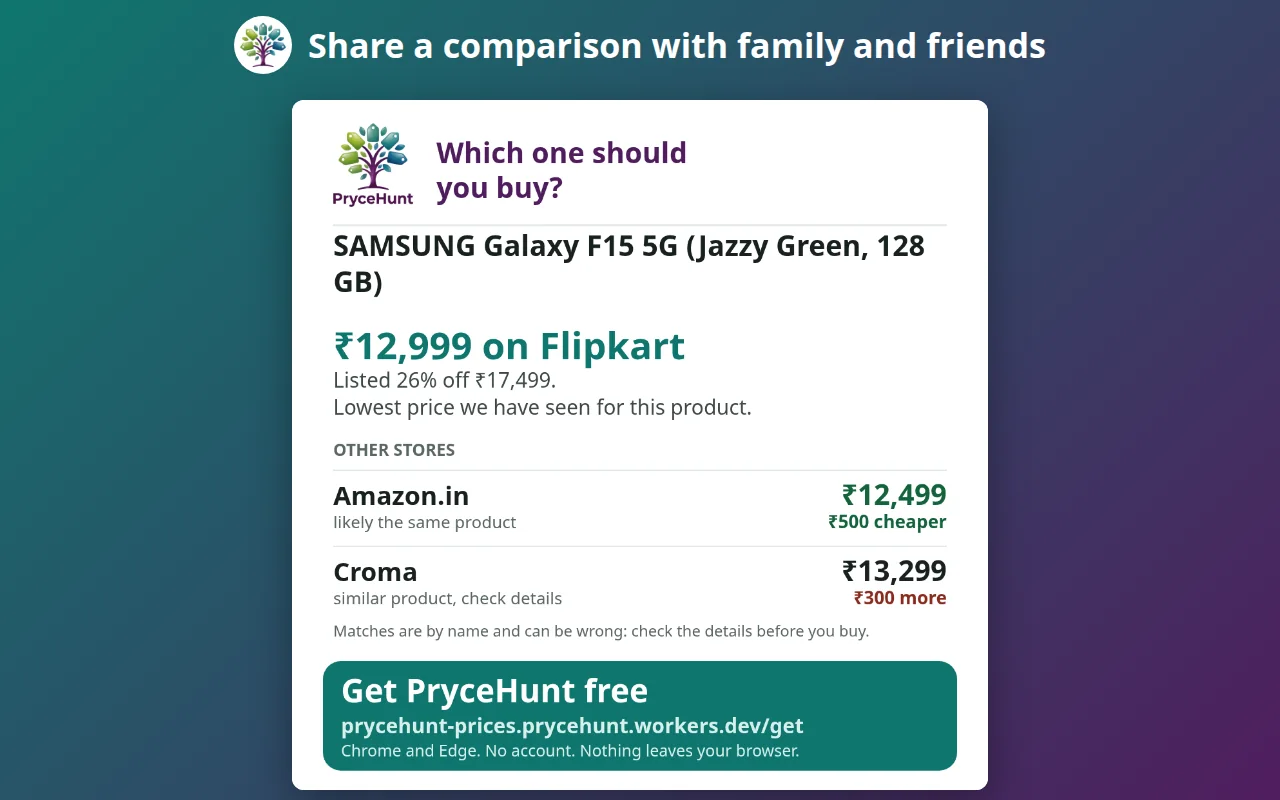
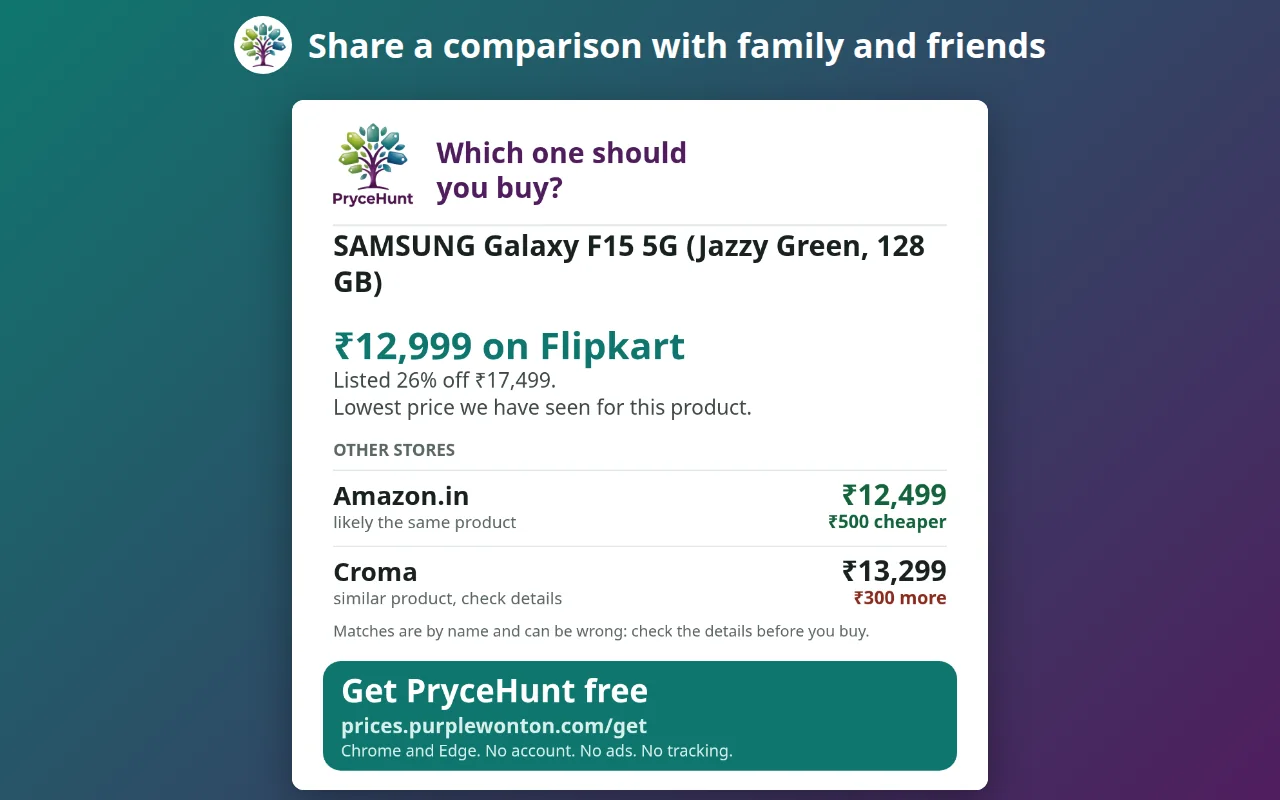
PryceHunt page: say that anonymous price sharing is on by default, and refresh the pictures
PryceHunt now shares anonymous prices by default (the owner's decision), and users can switch it
off in Settings. The page still said every optional feature was off until switched on. Corrected
in the English wording (the other languages show the English text for these PryceHunt keys):
- "Private by design": sharing is on by default (what is sent: store, product code, price and day;
  never who you are or your pincode; can be switched off); other features stay off until switched on.
- "Your choices": the same, with sharing named as the one exception.
- Price history bullet and the alerts answer: the shared history comes from prices that PryceHunt
  users share anonymously, not "chose to share".
- The answer to "Does PryceHunt see what I browse?" says what sharing sends.
- New question: "Can I switch off price sharing?" (Settings, Privacy and data), so the page and the
  structured data both carry it.
- The six screenshots were refreshed from PryceHunt's latest store pictures (the box footer now
  says "Anonymous prices are shared, never who you are.").

Checked: all five pages (home in English and German, PryceHunt, DupTabOff, French support) at ten
widths from 1280 to 320 pixels: pictures load, all have alt text, no failed requests, nothing scrolls
sideways. The home pages' picture fingerprints changed (all languages); nothing else.

Changed region(s): [[0.2812, 0.875, 0.625, 0.9688]]

diff --git a/prycehunt/index.html b/prycehunt/index.html
@@ -19,7 +19,7 @@
 <meta name="twitter:card" content="summary_large_image">
 <meta name="robots" content="index, follow">
 <meta name="theme-color" content="#7140e0">
-<script type="application/ld+json">{"@context": "https://schema.org", "@graph": [{"@type": "Organization", "@id": "https://www.purplewonton.com/#org", "name": "Purple Wonton", "url": "https://www.purplewonton.com/", "logo": "https://www.purplewonton.com/assets/mark.png", "email": "support@purplewonton.com", "description": "Purple Wonton is a technology studio in Bengaluru, India, building software, AI and automation products.", "address": {"@type": "PostalAddress", "addressLocality": "Bengaluru", "addressRegion": "Karnataka", "addressCountry": "IN"}}, {"@type": "SoftwareApplication", "name": "PryceHunt: price comparison for Indian stores", "url": "https://www.purplewonton.com/prycehunt/", "inLanguage": "en", "applicationCategory": "ShoppingApplication", "operatingSystem": "Chrome or Edge on Windows, macOS, Linux and ChromeOS", "description": "PryceHunt is a Chrome and Edge extension that shows what the product you are viewing costs at other Indian stores, with price history, honest sale facts and price-drop alerts. No account, no ads, no tracking.", "image": "https://www.purplewonton.com/assets/og-prycehunt.jpg", "screenshot": "https://www.purplewonton.com/assets/shots/prycehunt/comparison-box.webp", "publisher": {"@id": "https://www.purplewonton.com/#org"}, "offers": {"@type": "Offer", "name": "Free during launch", "price": "0", "priceCurrency": "INR"}}, {"@type": "FAQPage", "inLanguage": "en", "mainEntity": [{"@type": "Question", "name": "Is PryceHunt free?", "acceptedAnswer": {"@type": "Answer", "text": "Yes, while it is being launched. If a paid plan with higher limits comes later, we will tell you well before anything changes."}}, {"@type": "Question", "name": "Which browsers does it work in?", "acceptedAnswer": {"@type": "Answer", "text": "Chrome and Edge on a computer. Other browsers may come later."}}, {"@type": "Question", "name": "Do I need an account?", "acceptedAnswer": {"@type": "Answer", "text": "No. You never sign in, and your settings stay in your browser."}}, {"@type": "Question", "name": "How accurate are the matches?", "acceptedAnswer": {"@type": "Answer", "text": "PryceHunt matches products by name, so it can be wrong: a different size, colour or model can look the same. It labels each match as “likely the same product” or “similar: check details”, and you can flag a wrong match or price."}}, {"@type": "Question", "name": "Does PryceHunt see what I browse?", "acceptedAnswer": {"@type": "Answer", "text": "On the shopping sites it works on, it reads the product name and price on the page you are viewing, on your computer. It sends nothing by itself. A few optional features send limited information, each only after you switch it on."}}, {"@type": "Question", "name": "Why can't alerts arrive while my browser is closed?", "acceptedAnswer": {"@type": "Answer", "text": "The price checks run in your browser, so they need it open. You can also let PryceHunt watch for you while the browser is closed, using prices that other people chose to share, and receive alerts on Telegram; this can miss some drops."}}, {"@type": "Question", "name": "Does PryceHunt earn money from my purchases?", "acceptedAnswer": {"@type": "Answer", "text": "It may. When you click “Go to this store” and the store is cheaper or has an offer, PryceHunt may open an affiliate link that earns us a commission at no cost to you. It says so next to the button, and the link is added only when you click."}}, {"@type": "Question", "name": "How do I get in touch?", "acceptedAnswer": {"@type": "Answer", "text": "Write to support@purplewonton.com."}}]}]}</script>
+<script type="application/ld+json">{"@context": "https://schema.org", "@graph": [{"@type": "Organization", "@id": "https://www.purplewonton.com/#org", "name": "Purple Wonton", "url": "https://www.purplewonton.com/", "logo": "https://www.purplewonton.com/assets/mark.png", "email": "support@purplewonton.com", "description": "Purple Wonton is a technology studio in Bengaluru, India, building software, AI and automation products.", "address": {"@type": "PostalAddress", "addressLocality": "Bengaluru", "addressRegion": "Karnataka", "addressCountry": "IN"}}, {"@type": "SoftwareApplication", "name": "PryceHunt: price comparison for Indian stores", "url": "https://www.purplewonton.com/prycehunt/", "inLanguage": "en", "applicationCategory": "ShoppingApplication", "operatingSystem": "Chrome or Edge on Windows, macOS, Linux and ChromeOS", "description": "PryceHunt is a Chrome and Edge extension that shows what the product you are viewing costs at other Indian stores, with price history, honest sale facts and price-drop alerts. No account, no ads, no tracking.", "image": "https://www.purplewonton.com/assets/og-prycehunt.jpg", "screenshot": "https://www.purplewonton.com/assets/shots/prycehunt/comparison-box.webp", "publisher": {"@id": "https://www.purplewonton.com/#org"}, "offers": {"@type": "Offer", "name": "Free during launch", "price": "0", "priceCurrency": "INR"}}, {"@type": "FAQPage", "inLanguage": "en", "mainEntity": [{"@type": "Question", "name": "Is PryceHunt free?", "acceptedAnswer": {"@type": "Answer", "text": "Yes, while it is being launched. If a paid plan with higher limits comes later, we will tell you well before anything changes."}}, {"@type": "Question", "name": "Which browsers does it work in?", "acceptedAnswer": {"@type": "Answer", "text": "Chrome and Edge on a computer. Other browsers may come later."}}, {"@type": "Question", "name": "Do I need an account?", "acceptedAnswer": {"@type": "Answer", "text": "No. You never sign in, and your settings stay in your browser."}}, {"@type": "Question", "name": "How accurate are the matches?", "acceptedAnswer": {"@type": "Answer", "text": "PryceHunt matches products by name, so it can be wrong: a different size, colour or model can look the same. It labels each match as “likely the same product” or “similar: check details”, and you can flag a wrong match or price."}}, {"@type": "Question", "name": "Does PryceHunt see what I browse?", "acceptedAnswer": {"@type": "Answer", "text": "On the shopping sites it works on, it reads the product name and price on the page you are viewing, on your computer. With anonymous price sharing, which is on by default and can be switched off in Settings, it sends the store, product code, price and day of the products you view, never who you are, your pincode or the page address. Other features that send anything are off until you switch them on."}}, {"@type": "Question", "name": "Can I switch off price sharing?", "acceptedAnswer": {"@type": "Answer", "text": "Yes. Open PryceHunt's settings, go to Privacy and data, and untick “Share anonymous prices”. The welcome screen shown at install explains what it sends."}}, {"@type": "Question", "name": "Why can't alerts arrive while my browser is closed?", "acceptedAnswer": {"@type": "Answer", "text": "The price checks run in your browser, so they need it open. You can also let PryceHunt watch for you while the browser is closed, using prices that PryceHunt users share anonymously, and receive alerts on Telegram; this can miss some drops."}}, {"@type": "Question", "name": "Does PryceHunt earn money from my purchases?", "acceptedAnswer": {"@type": "Answer", "text": "It may. When you click “Go to this store” and the store is cheaper or has an offer, PryceHunt may open an affiliate link that earns us a commission at no cost to you. It says so next to the button, and the link is added only when you click."}}, {"@type": "Question", "name": "How do I get in touch?", "acceptedAnswer": {"@type": "Answer", "text": "Write to support@purplewonton.com."}}]}]}</script>
 <link rel="stylesheet" href="../assets/site.css">
 </head>
 <body>
@@ -49,7 +49,7 @@
       <a class="btn ghost" href="#features">See what it does</a>
     </div>
   </div>
-  <img class="hero-shot" src="../assets/shots/prycehunt/comparison-box.webp?v=68cea952" width="1280" height="800" alt="PryceHunt&#x27;s comparison box on a product page, showing a cheaper price at another store">
+  <img class="hero-shot" src="../assets/shots/prycehunt/comparison-box.webp?v=a1d2b999" width="1280" height="800" alt="PryceHunt&#x27;s comparison box on a product page, showing a cheaper price at another store">
 </section>
 
 <div class="wrap" id="features">
@@ -59,7 +59,7 @@
       <p>A small box under the price opens the comparison. Switch on “Show the price here instead of a link” and PryceHunt shows the other store's price in the box, marked “likely the same product” or “similar: check details”. You can switch that on or off right there.</p>
       <ul class="points"><li>Live prices today for Amazon.in and Flipkart; the other stores open their own search</li><li>The cheapest store found is called out, and you can list the lowest price first</li><li>Quick-delivery apps are included, with prices per 100 g, per 100 ml or per piece</li></ul>
     </div>
-    <div class="shot-wrap wide"><img src="../assets/shots/prycehunt/comparison-box.webp?v=68cea952" width="1280" height="800" loading="lazy" alt="PryceHunt&#x27;s comparison box on a product page, showing a cheaper price at another store"></div>
+    <div class="shot-wrap wide"><img src="../assets/shots/prycehunt/comparison-box.webp?v=a1d2b999" width="1280" height="800" loading="lazy" alt="PryceHunt&#x27;s comparison box on a product page, showing a cheaper price at another store"></div>
   </section>
   <section class="feature wide flip">
     <div>
@@ -67,20 +67,20 @@
       <p>On search, category and home pages, and on the similar items of a product page, every product gets a small “Compare prices” button. Nothing is fetched until you press one.</p>
       <ul class="points"><li>Amazon.in, Flipkart, Meesho, Myntra, Ajio and Croma</li><li>Blinkit, Zepto, BigBasket and Swiggy Instamart</li><li>Pause it for 30 minutes to 23 hours, on one site or on all sites</li></ul>
     </div>
-    <div class="shot-wrap wide"><img src="../assets/shots/prycehunt/compare-buttons.webp?v=214cf41e" width="1280" height="800" loading="lazy" alt="A search results page where every product has a small Compare prices button, and one comparison is open"></div>
+    <div class="shot-wrap wide"><img src="../assets/shots/prycehunt/compare-buttons.webp?v=eef547c0" width="1280" height="800" loading="lazy" alt="A search results page where every product has a small Compare prices button, and one comparison is open"></div>
   </section>
   <section class="feature wide">
     <div>
       <h2>Price history and honest sale facts</h2>
       <p>PryceHunt remembers the prices you have seen and charts them. It shows the lowest price seen, checks a “70% off” claim against what the product has usually cost, and during big sales such as Diwali tells you what the product cost before the sale began.</p>
-      <ul class="points"><li>No verdict and no pressure: it states the facts and you decide</li><li>Sale dates are the usual timing, because shops announce theirs late; you can choose the seasons to follow and add your own</li><li>Optional shared history, built from prices other people chose to share anonymously</li></ul>
+      <ul class="points"><li>No verdict and no pressure: it states the facts and you decide</li><li>Sale dates are the usual timing, because shops announce theirs late; you can choose the seasons to follow and add your own</li><li>Shared history, built from prices that PryceHunt users share anonymously (on by default; you can switch it off)</li></ul>
     </div>
-    <div class="shot-wrap wide"><img src="../assets/shots/prycehunt/sale-facts.webp?v=0e260057" width="1280" height="800" loading="lazy" alt="PryceHunt&#x27;s price history chart, the check of a 70 percent off claim and the price before a sale"></div>
+    <div class="shot-wrap wide"><img src="../assets/shots/prycehunt/sale-facts.webp?v=ca1586d4" width="1280" height="800" loading="lazy" alt="PryceHunt&#x27;s price history chart, the check of a 70 percent off claim and the price before a sale"></div>
   </section>
   <section class="feature wide flip">
     <div>
       <h2>Your choices, in clear settings</h2>
-      <p>Everything that contacts anything is off until you switch it on, and each setting says what is sent. Choose your stores and their order, where the box appears, and how it behaves.</p>
+      <p>Live prices, alerts, Telegram and every other feature that contacts anything are off until you switch them on, and each setting says what is sent. Anonymous price sharing is the one exception: it is on by default, and you can switch it off. Choose your stores and their order, where the box appears, and how it behaves.</p>
       <ul class="points"><li>No account to make</li><li>Live prices, alerts, price sharing and Telegram are separate switches</li><li>Erase everything with one button</li></ul>
     </div>
     <div class="shot-wrap wide"><img src="../assets/shots/prycehunt/settings.webp?v=1f218a94" width="1280" height="800" loading="lazy" alt="PryceHunt&#x27;s settings page, divided into General, Stores, Prices and alerts, and Privacy and data"></div>
@@ -91,7 +91,7 @@
       <p>The toolbar menu pauses PryceHunt for a while, keeps your watch-list and lets you set your pincode. Set an alert price or range for a product, choose which sites to watch during a sale, and get a notification when it drops.</p>
       <ul class="points"><li>Alerts are checked while your browser is open. Some stores, such as Amazon.in, do not allow automatic checks, so those prices update when you open the product</li><li>Optional alerts on Telegram, to reach your phone</li></ul>
     </div>
-    <div class="shot-wrap wide"><img src="../assets/shots/prycehunt/toolbar-menu.webp?v=53b4f481" width="1280" height="800" loading="lazy" alt="PryceHunt&#x27;s toolbar menu, with pause, the watch-list and a pincode box"></div>
+    <div class="shot-wrap wide"><img src="../assets/shots/prycehunt/toolbar-menu.webp?v=cb71aa10" width="1280" height="800" loading="lazy" alt="PryceHunt&#x27;s toolbar menu, with pause, the watch-list and a pincode box"></div>
   </section>
   <section class="feature wide flip">
     <div>
@@ -99,12 +99,12 @@
       <p>Pressing Share makes a picture and a short message of the comparison, ready for WhatsApp or Telegram. It contains the product and prices only, nothing about you.</p>
       
     </div>
-    <div class="shot-wrap wide"><img src="../assets/shots/prycehunt/share-card.webp?v=6088a21d" width="1280" height="800" loading="lazy" alt="A PryceHunt share card comparing the price of a phone at three stores"></div>
+    <div class="shot-wrap wide"><img src="../assets/shots/prycehunt/share-card.webp?v=2b724920" width="1280" height="800" loading="lazy" alt="A PryceHunt share card comparing the price of a phone at three stores"></div>
   </section>
 
   <section class="promise">
     <h2>Private by design</h2>
-    <p>PryceHunt has no accounts, no advertising, no analytics and no tracking, and we never sell data. Your settings, pincode, watch-list and price history stay in your browser. A few optional features send limited information to our price server or to other services; each one is off until you switch it on, and the settings say exactly what is sent.</p>
+    <p>PryceHunt has no accounts, no advertising, no analytics and no tracking, and we never sell data. Your settings, pincode, watch-list and price history stay in your browser. Anonymous price sharing is on by default: it sends the store, product code, price and day of the products you view on the supported stores, never who you are or your pincode, and you can switch it off in Settings. Other features that send anything to us or to other services are off until you switch them on, and the settings say exactly what is sent.</p>
   </section>
 
   <section class="feature-lists">
@@ -120,8 +120,9 @@
     <details><summary>Which browsers does it work in?</summary><p>Chrome and Edge on a computer. Other browsers may come later.</p></details>
     <details><summary>Do I need an account?</summary><p>No. You never sign in, and your settings stay in your browser.</p></details>
     <details><summary>How accurate are the matches?</summary><p>PryceHunt matches products by name, so it can be wrong: a different size, colour or model can look the same. It labels each match as “likely the same product” or “similar: check details”, and you can flag a wrong match or price.</p></details>
-    <details><summary>Does PryceHunt see what I browse?</summary><p>On the shopping sites it works on, it reads the product name and price on the page you are viewing, on your computer. It sends nothing by itself. A few optional features send limited information, each only after you switch it on.</p></details>
-    <details><summary>Why can't alerts arrive while my browser is closed?</summary><p>The price checks run in your browser, so they need it open. You can also let PryceHunt watch for you while the browser is closed, using prices that other people chose to share, and receive alerts on Telegram; this can miss some drops.</p></details>
+    <details><summary>Does PryceHunt see what I browse?</summary><p>On the shopping sites it works on, it reads the product name and price on the page you are viewing, on your computer. With anonymous price sharing, which is on by default and can be switched off in Settings, it sends the store, product code, price and day of the products you view, never who you are, your pincode or the page address. Other features that send anything are off until you switch them on.</p></details>
+    <details><summary>Can I switch off price sharing?</summary><p>Yes. Open PryceHunt's settings, go to Privacy and data, and untick “Share anonymous prices”. The welcome screen shown at install explains what it sends.</p></details>
+    <details><summary>Why can't alerts arrive while my browser is closed?</summary><p>The price checks run in your browser, so they need it open. You can also let PryceHunt watch for you while the browser is closed, using prices that PryceHunt users share anonymously, and receive alerts on Telegram; this can miss some drops.</p></details>
     <details><summary>Does PryceHunt earn money from my purchases?</summary><p>It may. When you click “Go to this store” and the store is cheaper or has an offer, PryceHunt may open an affiliate link that earns us a commission at no cost to you. It says so next to the button, and the link is added only when you click.</p></details>
     <details><summary>How do I get in touch?</summary><p>Write to <a href="mailto:support@purplewonton.com">support@purplewonton.com</a>.</p></details>
     <p class="fine" style="margin-top:20px">More answers on the <a href="../support/">support page</a>.</p>

diff --git a/ja/index.html b/ja/index.html
@@ -105,7 +105,7 @@
         <span class="fine">Free during launch</span>
       </div>
     </div>
-    <img class="shot wide" src="../assets/shots/prycehunt/comparison-box.webp?v=68cea952" width="1280" height="800" loading="lazy" alt="PryceHunt&#x27;s comparison box on a product page, with a cheaper price found at another store">
+    <img class="shot wide" src="../assets/shots/prycehunt/comparison-box.webp?v=a1d2b999" width="1280" height="800" loading="lazy" alt="PryceHunt&#x27;s comparison box on a product page, with a cheaper price found at another store">
   </article>
   <p class="more">新しい製品を開発中です。次につくってほしいもののアイデアは <a href="mailto:support@purplewonton.com">support@purplewonton.com</a> までお寄せください。</p>
 </section>

diff --git a/fr/index.html b/fr/index.html
@@ -105,7 +105,7 @@
         <span class="fine">Free during launch</span>
       </div>
     </div>
-    <img class="shot wide" src="../assets/shots/prycehunt/comparison-box.webp?v=68cea952" width="1280" height="800" loading="lazy" alt="PryceHunt&#x27;s comparison box on a product page, with a cheaper price found at another store">
+    <img class="shot wide" src="../assets/shots/prycehunt/comparison-box.webp?v=a1d2b999" width="1280" height="800" loading="lazy" alt="PryceHunt&#x27;s comparison box on a product page, with a cheaper price found at another store">
   </article>
   <p class="more">D’autres produits sont en préparation. Vos idées pour la suite sont les bienvenues à <a href="mailto:support@purplewonton.com">support@purplewonton.com</a>.</p>
 </section>

diff --git a/de/index.html b/de/index.html
@@ -105,7 +105,7 @@
         <span class="fine">Free during launch</span>
       </div>
     </div>
-    <img class="shot wide" src="../assets/shots/prycehunt/comparison-box.webp?v=68cea952" width="1280" height="800" loading="lazy" alt="PryceHunt&#x27;s comparison box on a product page, with a cheaper price found at another store">
+    <img class="shot wide" src="../assets/shots/prycehunt/comparison-box.webp?v=a1d2b999" width="1280" height="800" loading="lazy" alt="PryceHunt&#x27;s comparison box on a product page, with a cheaper price found at another store">
   </article>
   <p class="more">Weitere Produkte sind in Arbeit. Ideen, was wir als Nächstes bauen sollen, gerne an <a href="mailto:support@purplewonton.com">support@purplewonton.com</a>.</p>
 </section>

diff --git a/es/index.html b/es/index.html
@@ -105,7 +105,7 @@
         <span class="fine">Free during launch</span>
       </div>
     </div>
-    <img class="shot wide" src="../assets/shots/prycehunt/comparison-box.webp?v=68cea952" width="1280" height="800" loading="lazy" alt="PryceHunt&#x27;s comparison box on a product page, with a cheaper price found at another store">
+    <img class="shot wide" src="../assets/shots/prycehunt/comparison-box.webp?v=a1d2b999" width="1280" height="800" loading="lazy" alt="PryceHunt&#x27;s comparison box on a product page, with a cheaper price found at another store">
   </article>
   <p class="more">Hay más productos en camino. Tus ideas sobre qué crear después son bienvenidas en <a href="mailto:support@purplewonton.com">support@purplewonton.com</a>.</p>
 </section>

diff --git a/index.html b/index.html
@@ -105,7 +105,7 @@
         <span class="fine">Free during launch</span>
       </div>
     </div>
-    <img class="shot wide" src="assets/shots/prycehunt/comparison-box.webp?v=68cea952" width="1280" height="800" loading="lazy" alt="PryceHunt&#x27;s comparison box on a product page, with a cheaper price found at another store">
+    <img class="shot wide" src="assets/shots/prycehunt/comparison-box.webp?v=a1d2b999" width="1280" height="800" loading="lazy" alt="PryceHunt&#x27;s comparison box on a product page, with a cheaper price found at another store">
   </article>
   <p class="more">More products are in the works. Ideas for what we should build next are welcome at <a href="mailto:support@purplewonton.com">support@purplewonton.com</a>.</p>
 </section>
